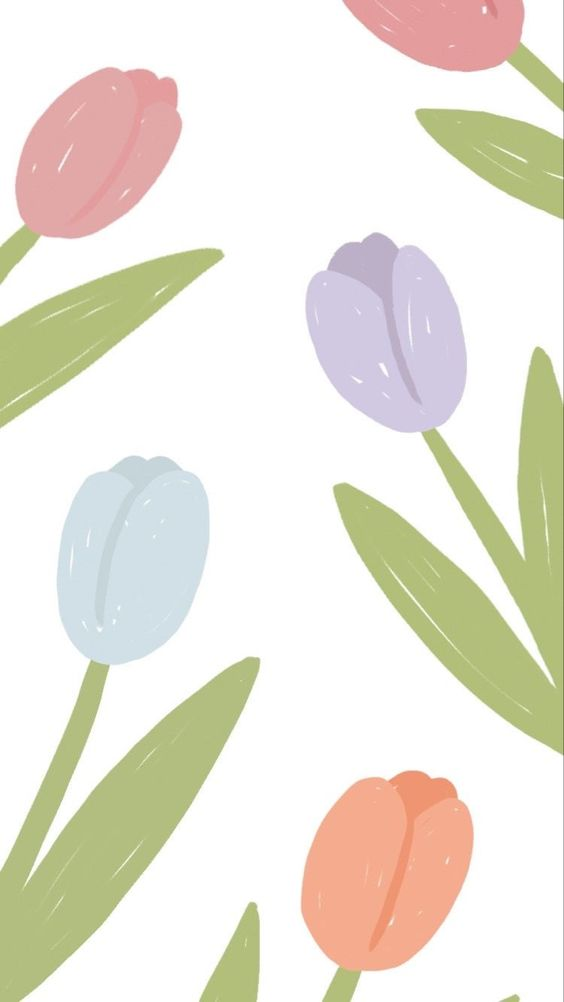
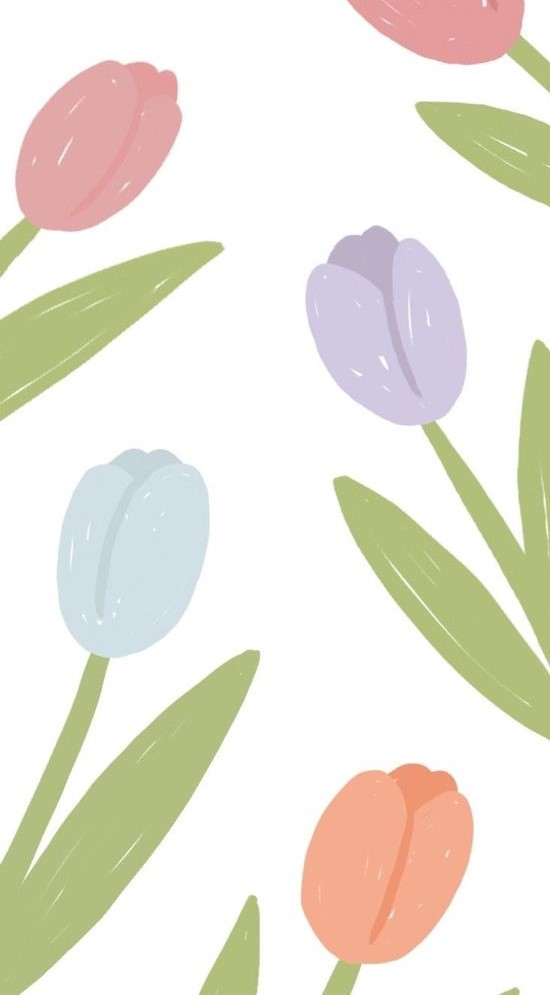
edits

diff --git a/vis-board/styles/vis-board.css b/vis-board/styles/vis-board.css
@@ -21,6 +21,7 @@ nav a{
     text-decoration: none;
     color:#2c4323 ;
     text-align:center;
+    font-size: 25px;
     padding: 35px;
 }
 nav a:hover{
@@ -33,7 +34,8 @@ header{
     grid-template-columns: 150px auto;
 }
 .logo{
- width: 100px;
+ width: 125px;
+ padding-left: 30px;
 }
 #background{
     background-color:#e0fff1;
@@ -44,7 +46,7 @@ footer{
     background-color: #a2e182;
     color:#2c4323;
     padding: 25px 50px;
-    margin-top: 200px;
+    margin-top: 100px;
     display: flex;
     justify-content: space-around;
     align-items:center;
@@ -77,59 +79,69 @@ footer .social img{
     width:60px;
     border-radius: 30%;
 }
-
 #hero-msg{
    font-family:"IM Fell French Canon SC",Georgia, 'Times New Roman', Times, serif;
    text-align: center;
    font-size: 30px;
    color:#2c4323;
 }
-
 main{
     display:grid;
-    grid-template-columns: 1fr 1fr 1fr;
-    grid-template-rows: 1fr 1fr;
+    grid-template-columns: 400px 1fr 1fr 1fr 1fr 400px;
+    grid-template-rows: 1fr 200px 350px 200px;
 }
 .tulip-left{
-    grid-column: 1;
-    grid-row:1;
+    grid-column: 1/2;
+    grid-row: 1/2;
     width: 375px;
     margin-left: 25px;
+    border-radius: 4%;
 }
 .tulip-right{
-    grid-column: 3;
-    grid-row:1;
+    grid-column: 6/7;
+    grid-row:1/2;
     width:375px;
     margin-right: 25px;
+    border-radius: 4%;
 }
 .affirm{
-    grid-column: 2;
-    grid-row: 1;
+    grid-column: 2/6;
+    grid-row: 1/2;
     font-family:"IM Fell French Canon SC",Georgia, 'Times New Roman', Times, serif;
     font-size: 40px;
     color:#2c7750;
     text-align: center;
 }
-ul{
+.daily{
     font-family:'Lato', Helvetica, sans-serif;
     font-size: 30px;
-    grid-column: 2;
+    grid-column: 2/6;
     grid-row: 1;
     margin-top: 200px;
     color: #2c7750;
 }
-#comfort-zone{
-    display:grid;
-    grid-template-columns: 1fr 1fr 1fr; 
+.background{
+    background-color:#a2e182;
+    grid-column:1/7;
+    grid-row: 2/5;
+    margin: 150px;
+    border-radius: 1%;
 }
-
 .comfortzone{
-    grid-column:1;
+    grid-column:1/2;
+    grid-row: 3;
+    margin-left: 200px;
+    width: 300px;
+    border-radius: 5%;
 }
-
 .home-quote{
-    font-size:40px;
-    grid-column: 2; 
+    font-size:45px;
+    grid-column: 3/7;
+    grid-row: 2; 
+    padding-top: 250px;
+    margin-right: 170px;
+    margin-left: 10px;
+    text-align: center;
     font-family:"IM Fell French Canon SC",Georgia, 'Times New Roman', Times, serif;
     color:#2c4323;
 }

diff --git a/vis-board/vis-board.html b/vis-board/vis-board.html
@@ -28,21 +28,21 @@
         <main>
             <img class="tulip-left" src="img/tulip.jpg" alt="tulips">
             <p class="affirm"> Daily Affirmations:  
-                <ul>
+                <ul class="daily">
                 <li>Today I will not stress over things I cannot control.</li>
                 <li>I am learning something new every day.</li>
                 <li>I choose to believe in myself.</li>
                 <li>I trust myself to handle whatever comes my way.</li>
                 <li>I appreciate everything I have.</li>
                 </ul>
-              </p>
+            </p>
               <img class="tulip-right" src="img/tulip.jpg" alt="tulips">
-            <div id="comfort-zone">
-                <img class="comfortzone" src="img/comfortzone.jpg" alt="comfortzone">
-                <p class="home-quote">
+            <div class="background"></div>
+            <img class="comfortzone" src="img/comfortzone.jpg" alt="comfortzone">
+            <p class="home-quote">
                     Embrace the uncertainty. Enjoy the beauty of becoming. When nothing is certain, anything is possible.
-                  </p>
-            </div>
+            </p>
+    
         </main>
      <footer>
            <p>Vis Board &copy; 20XX- Joanna Stevens</p>
